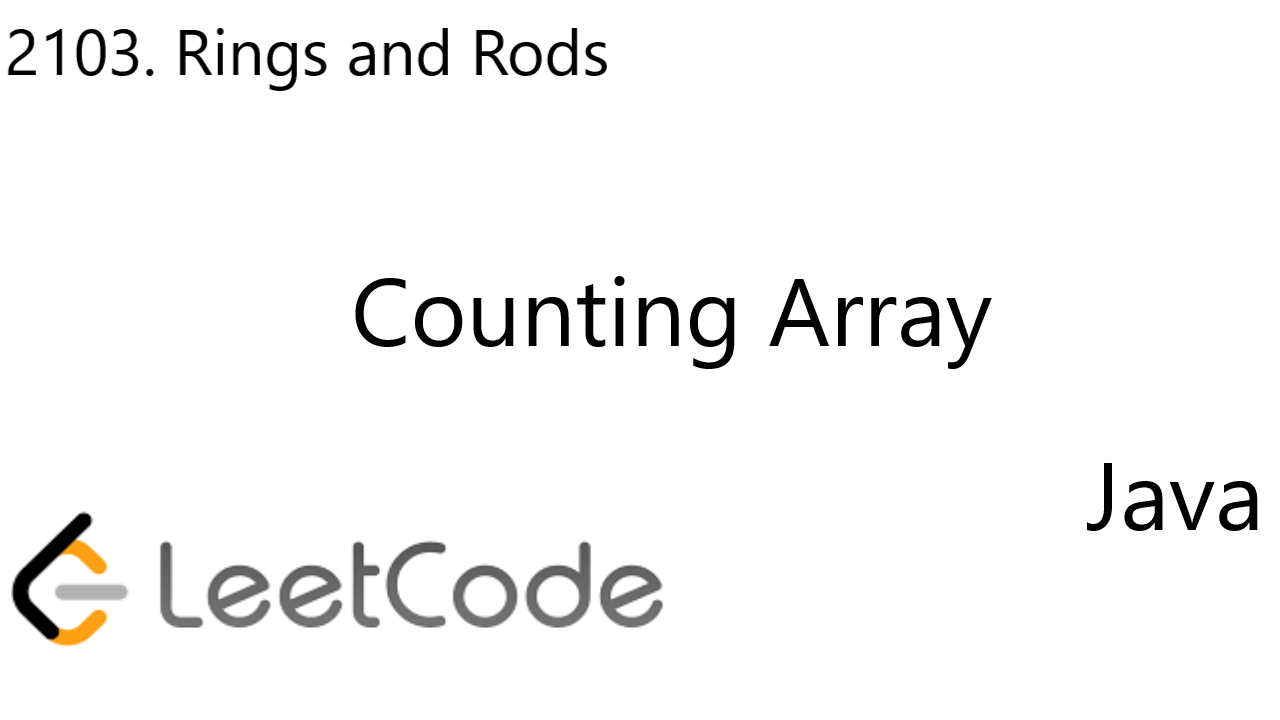
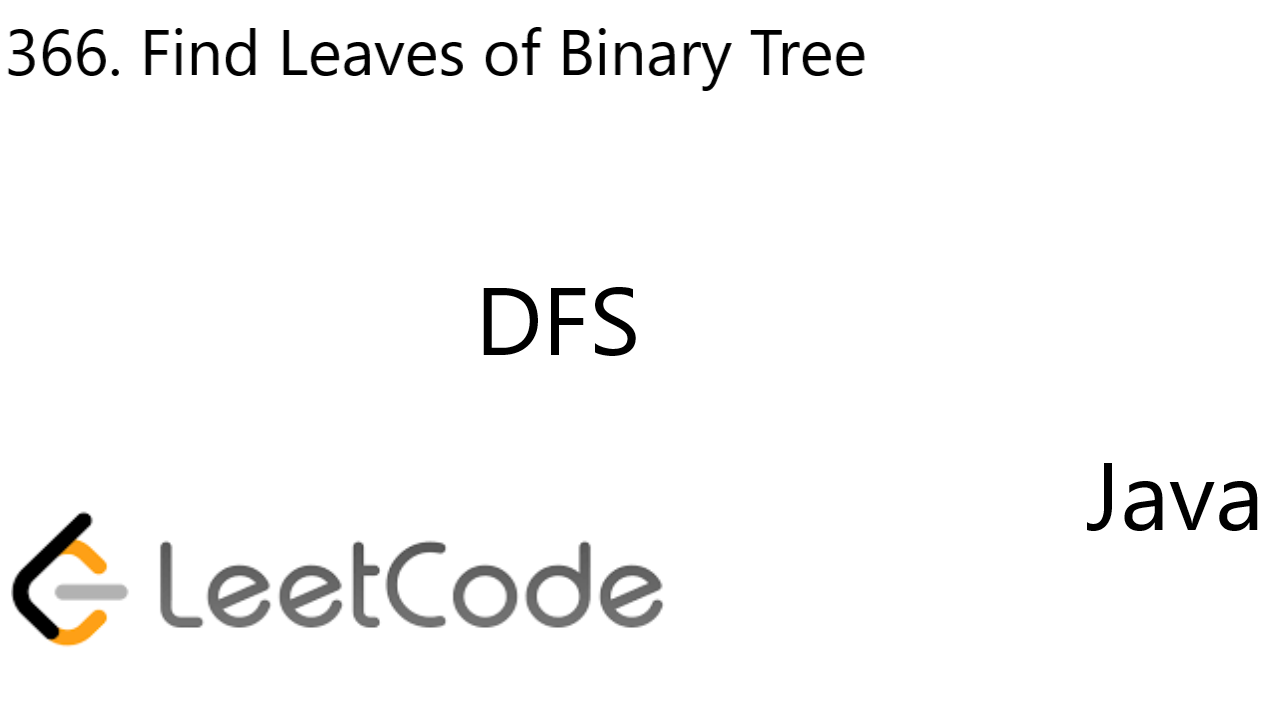
update google questions

Changed region(s): [[0.25, 0.3667, 0.7812, 0.5194], [0.0, 0.0306, 0.6875, 0.1222]]

diff --git a/LeetCode/01305. All Elements in Two Binary Search Trees/README.MD b/LeetCode/01305. All Elements in Two Binary Search Trees/README.MD
@@ -15,7 +15,7 @@
  * }
  */
 ```
-# InOrder
+# DFS
 * Time Complexity: O(ClogC)
 * Space Complexity: O(C)
 	* N as number of nodes in root1 tree
@@ -37,6 +37,40 @@ class Solution {
         inOrder(root.left);
         list.add(root.val);
         inOrder(root.right);
+    }
+}
+```
+# Iterative
+* Time Complexity: O(MAX(N, M))
+* Space Complexity: O(MAX(N, M))
+	* N as number of nodes in root1 tree
+	* M as number of nodes in root2 tree
+```
+class Solution {
+    public List<Integer> getAllElements(TreeNode root1, TreeNode root2) {
+        Stack<TreeNode> stack1 = new Stack(),
+                        stack2 = new Stack();
+        List<Integer> res = new ArrayList();
+        while(root1 != null || root2 != null || !stack1.isEmpty() || !stack2.isEmpty()){
+            while(root1 != null){
+                stack1.push(root1);
+                root1 = root1.left;
+            }
+            while(root2 != null){
+                stack2.push(root2);
+                root2 = root2.left;
+            }
+            if(stack2.isEmpty() || (!stack1.isEmpty() && stack1.peek().val < stack2.peek().val)){
+                root1 = stack1.pop();
+                res.add(root1.val);
+                root1 = root1.right;
+            }else{
+                root2 = stack2.pop();
+                res.add(root2.val);
+                root2 = root2.right;
+            }
+        }
+        return res;
     }
 }
 ```

diff --git a/LeetCode/00894. All Possible Full Binary Trees/README.MD b/LeetCode/00894. All Possible Full Binary Trees/README.MD
@@ -21,30 +21,29 @@
 ```
 class Solution {
     public List<TreeNode> allPossibleFBT(int n) {
-        List<TreeNode> res = new ArrayList();
-        if(n%2 == 0){
-            return res;
+        if(n%2 == 0 || n <= 0){
+            return new ArrayList();
         }
+        List<TreeNode> res = new ArrayList();
         if(n == 1){
             res.add(new TreeNode(0));
             return res;
         }
-        for(int l = 1; l <= n-1; l+=2){
-            int r = n-1-l;
-            List<TreeNode> leftTree = allPossibleFBT(l),
-                           rightTree = allPossibleFBT(r);
-            for(TreeNode left: leftTree){
-                for(TreeNode right: rightTree){
+        for(int i = 1; i < n; i+=2){
+            List<TreeNode> left = allPossibleFBT(i),
+                           right = allPossibleFBT(n-1-i);
+            for(TreeNode l: left){
+                for(TreeNode r: right){
                     TreeNode node = new TreeNode(0);
-                    node.left = left;
-                    node.right = right;
+                    node.left = l;
+                    node.right = r;
                     res.add(node);
                 }
             }
         }
         return res;
     }
-} 
+}
 ```
 # Memorization HashMap
 * Time Complexity: O(2<sup>N</sup>)

diff --git a/LeetCode/00366. Find Leaves of Binary Tree/README.MD b/LeetCode/00366. Find Leaves of Binary Tree/README.MD
@@ -1,0 +1,42 @@
+```
+/**
+ * Definition for a binary tree node.
+ * public class TreeNode {
+ *     int val;
+ *     TreeNode left;
+ *     TreeNode right;
+ *     TreeNode() {}
+ *     TreeNode(int val) { this.val = val; }
+ *     TreeNode(int val, TreeNode left, TreeNode right) {
+ *         this.val = val;
+ *         this.left = left;
+ *         this.right = right;
+ *     }
+ * }
+ */
+```
+# DFS
+* Time Complexity: O(N)
+* Space Complexity: O(N)
+	* N as number of TreeNodes
+```
+class Solution {
+    List<List<Integer>> res;
+    public List<List<Integer>> findLeaves(TreeNode root) {
+        res = new ArrayList();
+        dfs(root);
+        return res;
+    }
+    public int dfs(TreeNode node){
+        if(node == null){
+            return 0;
+        }
+        int height = Math.max(dfs(node.left), dfs(node.right)) + 1;
+        if(res.size() < height){
+            res.add(new ArrayList());
+        }
+        res.get(height - 1).add(node.val);
+        return height;
+    }
+}
+```
